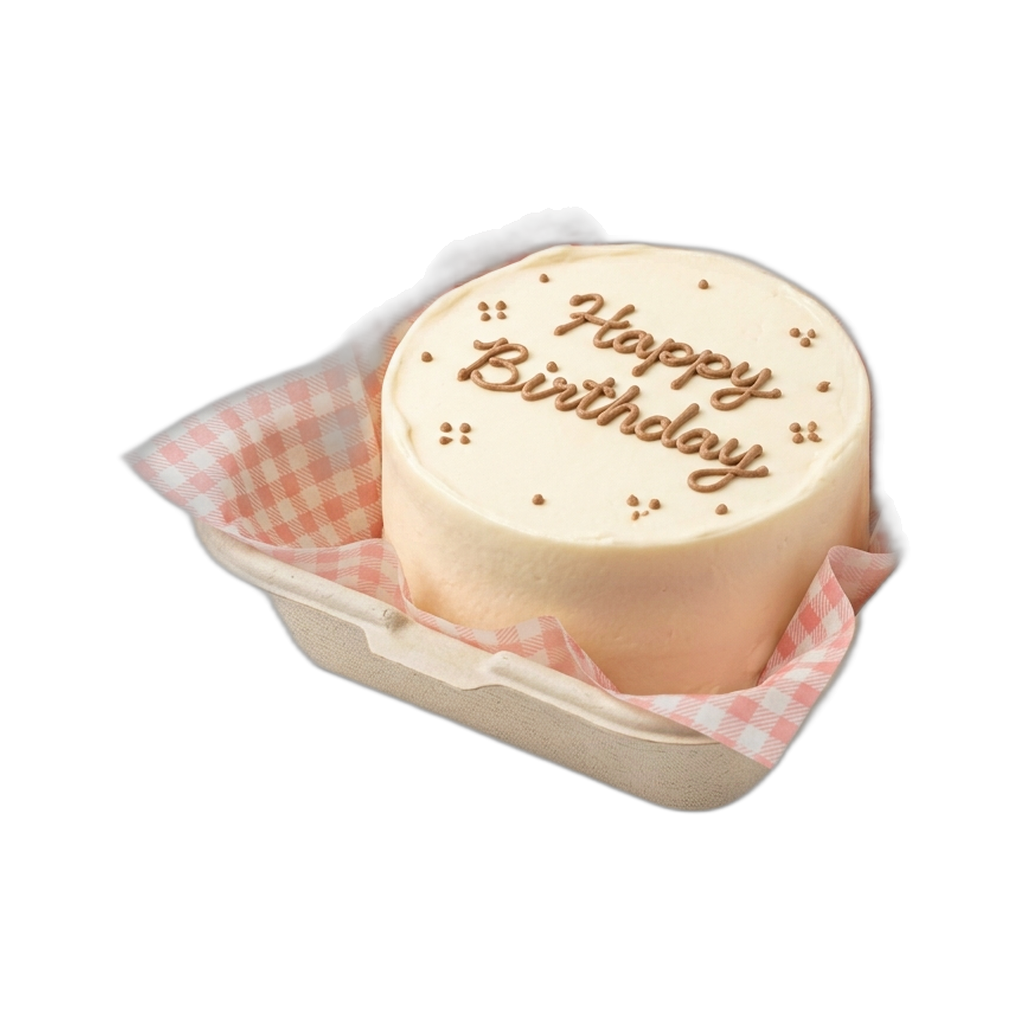
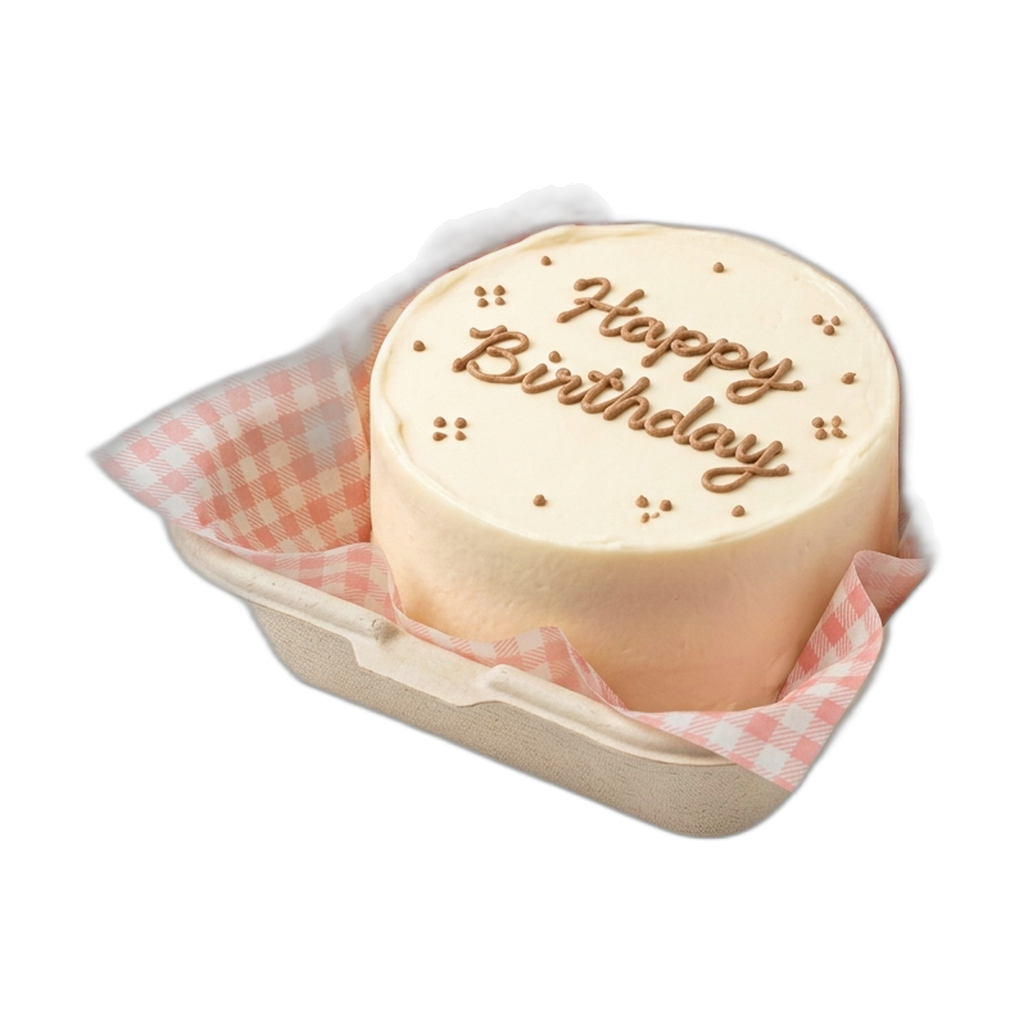
feat: enhance image handling and update cutout functionality

Changed region(s): [[0.0938, 0.1875, 0.9375, 0.8438], [0.5, 0.5, 0.5312, 0.5312]]

diff --git a/components/order.tsx b/components/order.tsx
@@ -96,10 +96,15 @@ function estimate(d: Draft, pct: number) {
 const money = (n: number) => `£${n % 1 ? n.toFixed(2) : n}`;
 
 function describe(d: Draft) {
-  const items: { name: string; qty: number }[] = [];
+  const items: { name: string; qty: number; cutout?: string }[] = [];
   let title = "";
   if (d.category === "cookies" || d.category === "cupcakes") {
-    for (const [id, qty] of Object.entries(d.flavours)) if (qty > 0) items.push({ name: menu.find((m) => m.id === id)!.name, qty });
+    for (const [id, qty] of Object.entries(d.flavours)) {
+      if (qty > 0) {
+        const m = menu.find((item) => item.id === id);
+        if (m) items.push({ name: m.name, qty, cutout: m.cutout });
+      }
+    }
     const size = sizeOf(d);
     const festive = Object.keys(d.flavours).some((id) => d.flavours[id] > 0 && menu.find((m) => m.id === id)?.christmas);
     title = d.category === "cookies" ? `${festive ? "Christmas cookie box" : "Filled cookies"}, ${size?.label.toLowerCase()}` : `${size?.label} cupcakes`;
@@ -107,13 +112,16 @@ function describe(d: Draft) {
   if (d.category === "cakes") {
     const size = orderOptions.cakes.sizes.find((s) => s.id === d.sizeId);
     const flavour = cakeFlavours.find((f) => f.id === d.cakeFlavour);
-    title = `${size?.label} ${flavour?.name.toLowerCase() ?? ""} cake`;
-    if (flavour) items.push({ name: flavour.name, qty: 1 });
+    title = `${size?.label ?? ""} ${flavour?.name.toLowerCase() ?? ""} cake`.trim();
+    if (flavour) items.push({ name: flavour.name, qty: 1, cutout: flavour.cutout });
   }
   if (d.category === "favours") {
     const type = orderOptions.favours.types.find((t) => t.id === d.favourType);
     title = `${d.favourQty} ${type?.label.toLowerCase() ?? "favours"}`;
-    if (type) items.push({ name: type.label, qty: d.favourQty });
+    if (type) {
+      const favCutout = type.id === "mini-cookie" ? "/images/biscoff-cookie-cutout.png" : type.id === "mini-cupcake" ? "/images/vanilla-strawberry-cutout.png" : "/images/favour-cutout.png";
+      items.push({ name: type.label, qty: d.favourQty, cutout: favCutout });
+    }
   }
   return { title, items };
 }
@@ -522,12 +530,19 @@ function Summary({ draft, est, progress, className = "" }: { draft: Draft; est: 
             <dd className="text-right text-choc">{v}</dd>
           </div>
         ))}
-        {items.length > 1 && (
+        {items.length > 0 && (
           <ul className="space-y-1.5 rounded-2xl bg-paper/70 p-3 text-[13px]">
             {items.map((i) => (
-              <li key={i.name} className="flex justify-between gap-3 text-cocoa">
-                <span>{i.name}</span>
-                <span className="tabular-nums">× {i.qty}</span>
+              <li key={i.name} className="flex items-center justify-between gap-3 text-cocoa">
+                <span className="flex min-w-0 items-center gap-2">
+                  {i.cutout && (
+                    <span className="relative h-6 w-6 shrink-0 overflow-hidden rounded-full bg-[#eedfc3]">
+                      <Image src={i.cutout} alt="" fill sizes="24px" className="object-contain p-0.5" />
+                    </span>
+                  )}
+                  <span className="truncate">{i.name}</span>
+                </span>
+                <span className="tabular-nums font-mono text-choc">× {i.qty}</span>
               </li>
             ))}
           </ul>
@@ -707,10 +722,22 @@ function StepFlavours({ draft, update, available }: StepProps & { available: Rec
           const qty = draft.flavours[f.id] ?? 0;
           const off = !available[f.id];
           return (
-            <li key={f.id} data-step-item className={`flex items-center gap-4 py-3 ${off ? "opacity-45" : ""}`}>
-              <Placeholder art={f.art} tone={f.tone} festive={f.christmas} className="h-12 w-12 shrink-0 rounded-full" />
+            <li key={f.id} data-step-item className={`group flex items-center gap-4 py-3 ${off ? "opacity-45" : ""}`}>
+              <div className="relative h-14 w-14 shrink-0 overflow-hidden rounded-full border border-line/60 bg-[#eedfc3] shadow-sm">
+                {f.cutout || f.image ? (
+                  <Image
+                    src={f.cutout || f.image!}
+                    alt={f.name}
+                    fill
+                    sizes="56px"
+                    className="object-contain p-1 transition-transform duration-500 group-hover:scale-110"
+                  />
+                ) : (
+                  <Placeholder art={f.art} tone={f.tone} festive={f.christmas} className="h-full w-full" />
+                )}
+              </div>
               <div className="min-w-0 flex-1">
-                <p className="truncate text-[15px] text-choc">{f.name}</p>
+                <p className="truncate text-[15px] font-medium text-choc">{f.name}</p>
                 <p className="text-[12px] text-mocha">{off ? "Sold out for now" : f.christmas ? "Christmas special · limited time" : f.seasonal ? "Limited time only" : f.priceNote}</p>
               </div>
               <Stepper2 value={qty} disabled={off} onChange={(v) => setQty(f.id, v)} />
@@ -777,9 +804,21 @@ function CakeOptions({ draft, update, available }: StepProps & { available: Reco
             disabled={!available[f.id]}
             className="flex items-center gap-3 p-2.5 pr-10"
           >
-            <Placeholder art={f.art} tone={f.tone} festive={f.christmas} className="h-14 w-14 shrink-0 rounded-[12px]" />
+            <div className="relative h-14 w-14 shrink-0 overflow-hidden rounded-[12px] border border-line/50 bg-[#eedfc3] shadow-sm">
+              {f.cutout || f.image ? (
+                <Image
+                  src={f.cutout || f.image!}
+                  alt={f.name}
+                  fill
+                  sizes="56px"
+                  className="object-contain p-1 transition-transform duration-500 group-hover:scale-105"
+                />
+              ) : (
+                <Placeholder art={f.art} tone={f.tone} festive={f.christmas} className="h-full w-full" />
+              )}
+            </div>
             <span>
-              <span className="block text-[15px] text-choc">{f.name}</span>
+              <span className="block text-[15px] font-medium text-choc">{f.name}</span>
               <span className="block text-[12px] text-mocha">
                 {!available[f.id] ? "Sold out for now" : f.christmas ? "Christmas special" : f.price > 45 ? `+${money(f.price - 45)}` : "Included"}
               </span>
@@ -791,6 +830,12 @@ function CakeOptions({ draft, update, available }: StepProps & { available: Reco
   );
 }
 
+const FAVOUR_IMAGES: Record<string, string> = {
+  "mini-cookie": "/images/biscoff-cookie-cutout.png",
+  "iced-biscuit": "/images/favour-cutout.png",
+  "mini-cupcake": "/images/vanilla-strawberry-cutout.png",
+};
+
 function FavourOptions({ draft, update }: StepProps) {
   const { min, step, types } = orderOptions.favours;
   return (
@@ -798,8 +843,16 @@ function FavourOptions({ draft, update }: StepProps) {
       <div className="grid gap-3 sm:grid-cols-3">
         {types.map((t) => (
           <Choice key={t.id} selected={draft.favourType === t.id} onClick={() => update({ favourType: t.id })} className="overflow-hidden p-2.5">
-            <Placeholder art="favour" tone={t.tone} className="aspect-[4/3] rounded-[14px]" />
-            <p className="px-2 pt-3 text-[15px] text-choc">{t.label}</p>
+            <div className="relative aspect-[4/3] overflow-hidden rounded-[14px] bg-[#eedfc3]">
+              <Image
+                src={FAVOUR_IMAGES[t.id] ?? "/images/favour-cutout.png"}
+                alt={t.label}
+                fill
+                sizes="(max-width: 768px) 100vw, 33vw"
+                className="object-contain p-3 transition-transform duration-700 group-hover:scale-105"
+              />
+            </div>
+            <p className="px-2 pt-3 text-[15px] font-medium text-choc">{t.label}</p>
             <p className="px-2 pb-2 text-[12.5px] text-mocha">{money(t.unit)} each</p>
           </Choice>
         ))}
@@ -1180,7 +1233,20 @@ function StepReview({ draft, est, pct, onEdit }: { draft: Draft; est: ReturnType
         1,
         <>
           <p className="font-display text-xl">{title.charAt(0).toUpperCase() + title.slice(1)}</p>
-          {items.length > 1 && <p className="mt-1 text-[13.5px] text-cocoa">{items.map((i) => `${i.qty} × ${i.name}`).join(" · ")}</p>}
+          {items.length > 0 && (
+            <div className="mt-3 space-y-2">
+              {items.map((i) => (
+                <div key={i.name} className="flex items-center gap-2.5 text-[14px] text-cocoa">
+                  {i.cutout && (
+                    <span className="relative h-7 w-7 shrink-0 overflow-hidden rounded-full border border-line/50 bg-[#eedfc3]">
+                      <Image src={i.cutout} alt="" fill sizes="28px" className="object-contain p-0.5" />
+                    </span>
+                  )}
+                  <span className="font-medium text-choc">{i.qty} × {i.name}</span>
+                </div>
+              ))}
+            </div>
+          )}
         </>,
       )}
       {block("Collection", 2, `${draft.date ? formatLong(draft.date) : ""} · ${slot?.label}, ${slot?.time}`)}

diff --git a/lib/mock-data.ts b/lib/mock-data.ts
@@ -73,9 +73,9 @@ export const menu: MenuItem[] = [
   { id: "vintage-heart", category: "cakes", name: "Vintage heart cake", description: "Piped Lambeth-style heart with ribbon details. Your message on top.", price: 55, priceNote: "from", tone: "blush", art: "heart-cake", image: "/images/vintage-heart-cake.jpg", cutout: "/images/heart-cake-cutout.png" },
   { id: "victoria", category: "cakes", name: "Classic Victoria sponge", description: "Vanilla sponge, raspberry jam and vanilla buttercream. 6-inch serves 10–12.", price: 45, priceNote: "from", tone: "ivory", art: "cake", image: "/images/victoria-sponge.jpg", cutout: "/images/victoria-sponge-cutout.png" },
   { id: "chocolate-fudge", category: "cakes", name: "Chocolate fudge", description: "Three layers of cocoa sponge with chocolate fudge frosting and a ganache drip.", price: 48, priceNote: "from", tone: "chocolate", art: "cake", image: "/images/chocolate-fudge-cake.jpg", cutout: "/images/chocolate-fudge-cake-cutout.png" },
-  { id: "lemon-raspberry", category: "cakes", name: "Lemon & raspberry", description: "Lemon drizzle sponge, raspberry compote, lemon buttercream.", price: 48, priceNote: "from", tone: "lemon", art: "cake", image: "/images/lemon-raspberry-cake.jpg", cutout: "/images/lemon-raspberry-cake-cutout.png" },
-  { id: "pistachio-rose", category: "cakes", name: "Pistachio & rose", description: "Pistachio sponge, rose buttercream, crushed pistachios and dried petals.", price: 52, priceNote: "from", tone: "rose", art: "cake", image: "/images/pistachio-rose-cake.jpg", cutout: "/images/pistachio-rose-cake-cutout.png" },
-  { id: "bento", category: "cakes", name: "Bento cake", description: "A 4-inch mini cake in a little box, made for two. Simple piped message.", price: 28, priceNote: "from", tone: "vanilla", art: "bento", image: "/images/bento-cake.jpg", cutout: "/images/bento-cake-cutout.png" },
+  { id: "lemon-raspberry", category: "cakes", name: "Lemon & raspberry", description: "Lemon drizzle sponge, raspberry compote, lemon buttercream.", price: 48, priceNote: "from", tone: "lemon", art: "cake", image: "/images/lemon-raspberry-cake.jpg", cutout: "/images/lemon-raspberry-cake-cutout-v2.png" },
+  { id: "pistachio-rose", category: "cakes", name: "Pistachio & rose", description: "Pistachio sponge, rose buttercream, crushed pistachios and dried petals.", price: 52, priceNote: "from", tone: "rose", art: "cake", image: "/images/pistachio-rose-cake.jpg", cutout: "/images/pistachio-rose-cake-cutout-v2.png" },
+  { id: "bento", category: "cakes", name: "Bento cake", description: "A 4-inch mini cake in a little box, made for two. Simple piped message.", price: 28, priceNote: "from", tone: "vanilla", art: "bento", image: "/images/bento-cake.jpg", cutout: "/images/bento-cake-cutout-v2.png" },
   { id: "spiced-orange-cake", category: "cakes", name: "Spiced orange & cranberry", description: "Orange and mixed-spice sponge, cranberry compote, cream cheese frosting.", price: 50, priceNote: "from", seasonal: true, christmas: true, tone: "orange", art: "cake", image: "/images/spiced-orange-cake.jpg", cutout: "/images/spiced-orange-cake-cutout.png" },
 ];
 
@@ -225,7 +225,7 @@ export const gallery: GalleryItem[] = [
   { id: "g8", title: "Bento for two", category: "Cakes", art: "bento", tone: "rose", shape: "square", image: "/images/bento-cake.jpg" },
   { id: "g9", title: "Salted caramel dozen", category: "Cupcakes", art: "cupcake", tone: "caramel", shape: "square", image: "/images/salted-caramel-cupcake.jpg" },
   { id: "g10", title: "Kinder Bueno stuffed cookie", category: "Cookies", art: "cookie", tone: "bueno", shape: "tall", image: "/images/kinder-bueno-cookie.jpg" },
-  { id: "g11", title: "Birthday gift box", category: "Gifting", art: "box", tone: "blush", shape: "square" },
+  { id: "g11", title: "Birthday gift box", category: "Gifting", art: "box", tone: "blush", shape: "square", image: "/images/bakery-gift-box.jpg" },
   { id: "g12", title: "Lemon & raspberry layers", category: "Cakes", art: "cake", tone: "lemon", shape: "tall", image: "/images/lemon-raspberry-cake.jpg" },
   { id: "g13", title: "Gingerbread spice", category: "Cupcakes", art: "cupcake", tone: "ginger", shape: "square", image: "/images/gingerbread-cupcake.jpg" },
   { id: "g14", title: "Iced waffle latte", category: "Bakes", art: "stack", tone: "caramel", shape: "wide", image: "/images/bistey-waffle-coffee.jpg" },

diff --git a/components/dashboard.tsx b/components/dashboard.tsx
@@ -1,5 +1,6 @@
 "use client";
 
+import Image from "next/image";
 import { useSearchParams } from "next/navigation";
 import { useEffect, useLayoutEffect, useMemo, useRef, useState } from "react";
 import { gsap, useGSAP, prefersReducedMotion } from "@/lib/motion";
@@ -630,7 +631,13 @@ function SeasonalToggles() {
       <ul className="-mx-1 max-h-[340px] divide-y divide-line overflow-y-auto pr-1" data-lenis-prevent>
         {seasonal.map((m) => (
           <li key={m.id} className="flex items-center gap-3 px-1 py-2.5">
-            <Placeholder art={m.art} tone={m.tone} festive={m.christmas} className={`h-10 w-10 shrink-0 rounded-full transition-[filter] ${available[m.id] ? "" : "grayscale"}`} />
+            <div className={`relative h-10 w-10 shrink-0 overflow-hidden rounded-full border border-line/60 bg-[#eedfc3] transition-[filter] ${available[m.id] ? "" : "grayscale"}`}>
+              {m.cutout || m.image ? (
+                <Image src={m.cutout || m.image!} alt={m.name} fill sizes="40px" className="object-contain p-0.5" />
+              ) : (
+                <Placeholder art={m.art} tone={m.tone} festive={m.christmas} className="h-full w-full" />
+              )}
+            </div>
             <div className="min-w-0 flex-1">
               <p className={`truncate text-[14px] ${available[m.id] ? "text-choc" : "text-mocha line-through"}`}>{m.name}</p>
               <p className="text-[11.5px] text-mocha">{m.christmas ? "Christmas special" : "Limited time"} · {m.category}</p>
@@ -920,7 +927,13 @@ function MenuView() {
                 .filter((m) => m.category === c)
                 .map((m) => (
                   <li key={m.id} className="flex items-center gap-3 py-2.5">
-                    <Placeholder art={m.art} tone={m.tone} festive={m.christmas} className={`h-10 w-10 shrink-0 rounded-xl ${available[m.id] ? "" : "grayscale"}`} />
+                    <div className={`relative h-10 w-10 shrink-0 overflow-hidden rounded-xl border border-line/60 bg-[#eedfc3] transition-[filter] ${available[m.id] ? "" : "grayscale"}`}>
+                      {m.cutout || m.image ? (
+                        <Image src={m.cutout || m.image!} alt={m.name} fill sizes="40px" className="object-contain p-0.5" />
+                      ) : (
+                        <Placeholder art={m.art} tone={m.tone} festive={m.christmas} className="h-full w-full" />
+                      )}
+                    </div>
                     <div className="min-w-0 flex-1">
                       <p className={`truncate text-[14px] ${available[m.id] ? "" : "text-mocha line-through"}`}>{m.name}</p>
                       <p className="text-[11.5px] text-mocha">

diff --git a/scripts/process_images.py b/scripts/process_images.py
@@ -24,7 +24,7 @@ def make_square_jpg(src_path, dst_path, size=1024):
     resized.save(dst_path, "JPEG", quality=92)
     print(f"Saved JPG: {dst_path}")
 
-def make_cutout_png(src_path, dst_path, canvas_size=1024, target_size=800, alpha_thresh=60):
+def make_cutout_png(src_path, dst_path, canvas_size=1024, target_size=800, alpha_thresh=60, crop_y_bottom=None):
     im = Image.open(src_path)
     out = remove(im)
     arr = np.array(out)
@@ -40,8 +40,10 @@ def make_cutout_png(src_path, dst_path, canvas_size=1024, target_size=800, alpha
         clean_arr = arr.copy()
         clean_arr[~dilated_mask] = 0
         clean_arr[alpha < 15] = 0
+        if crop_y_bottom is not None:
+            clean_arr[crop_y_bottom:, :] = 0
 
-        ys, xs = np.where(dilated_mask)
+        ys, xs = np.where(clean_arr[:, :, 3] > 10)
         ymin, ymax = max(0, int(ys.min()) - 2), min(out.height, int(ys.max()) + 2)
         xmin, xmax = max(0, int(xs.min()) - 2), min(out.width, int(xs.max()) + 2)
 
@@ -113,7 +115,20 @@ for kind, pattern, out_name in mappings:
     if kind == "jpg":
         make_square_jpg(src, dst)
     else:
-        make_cutout_png(src, dst)
+        target_size = 800
+        crop_y_bottom = None
+        if "lemon-raspberry" in out_name:
+            target_size = 840
+            crop_y_bottom = 545
+        elif "pistachio-rose" in out_name:
+            target_size = 850
+        elif "bento" in out_name:
+            target_size = 860
+        make_cutout_png(src, dst, target_size=target_size, crop_y_bottom=crop_y_bottom)
+        # Also save versioned -v2 copy for cache busting
+        v2_name = out_name.replace(".png", "-v2.png")
+        if v2_name != out_name and any(k in out_name for k in ["lemon-raspberry", "pistachio-rose", "bento"]):
+            make_cutout_png(src, os.path.join(IMAGES_DIR, v2_name), target_size=target_size, crop_y_bottom=crop_y_bottom)
 
 # Create thumbnail for cupcake
 im_cupcake = Image.open(os.path.join(IMAGES_DIR, "vanilla-strawberry-cutout.png"))
